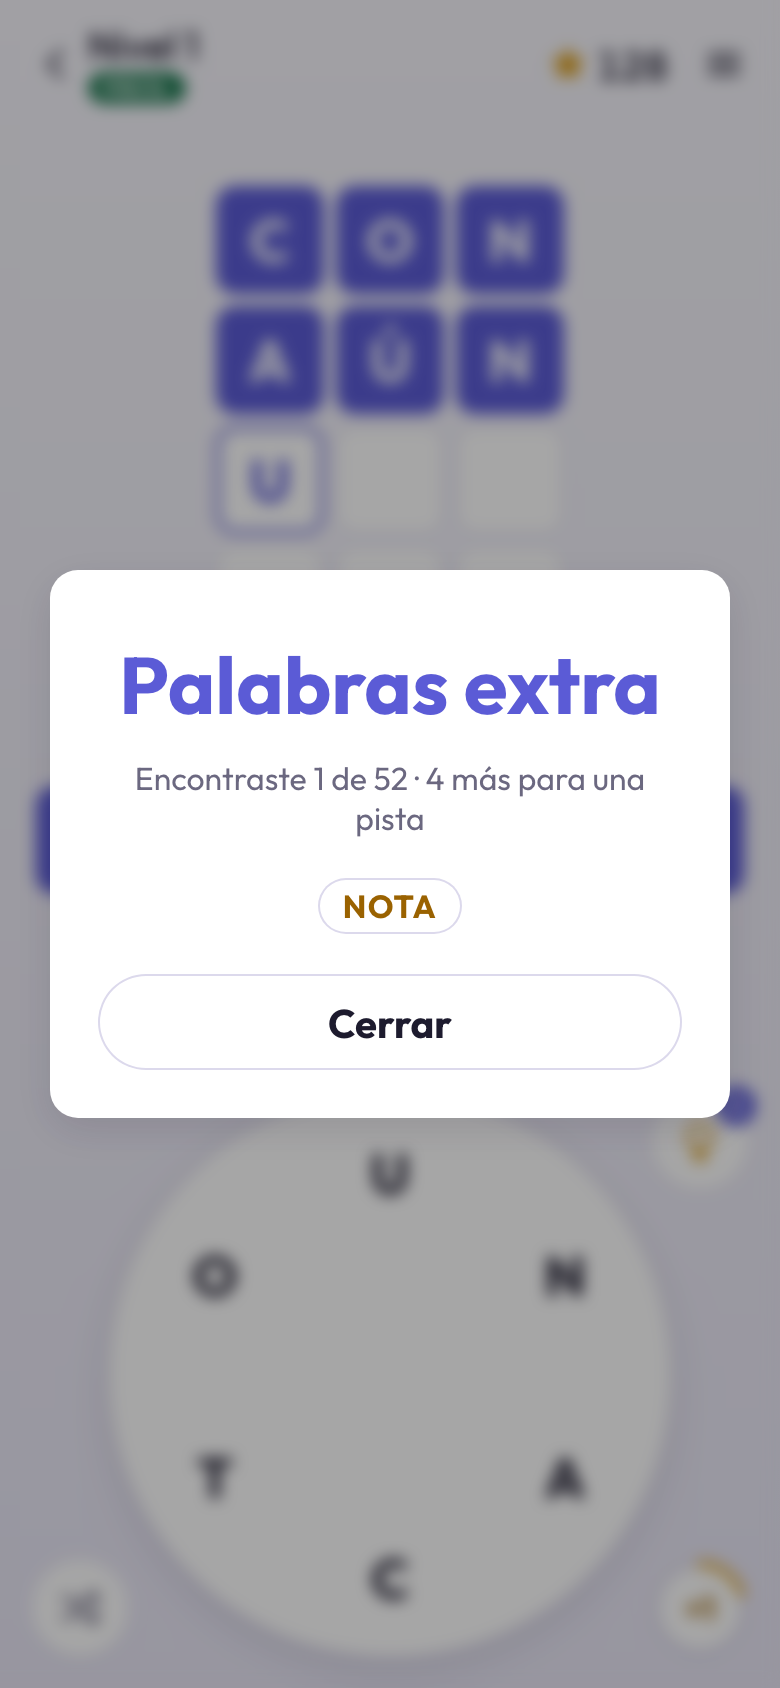
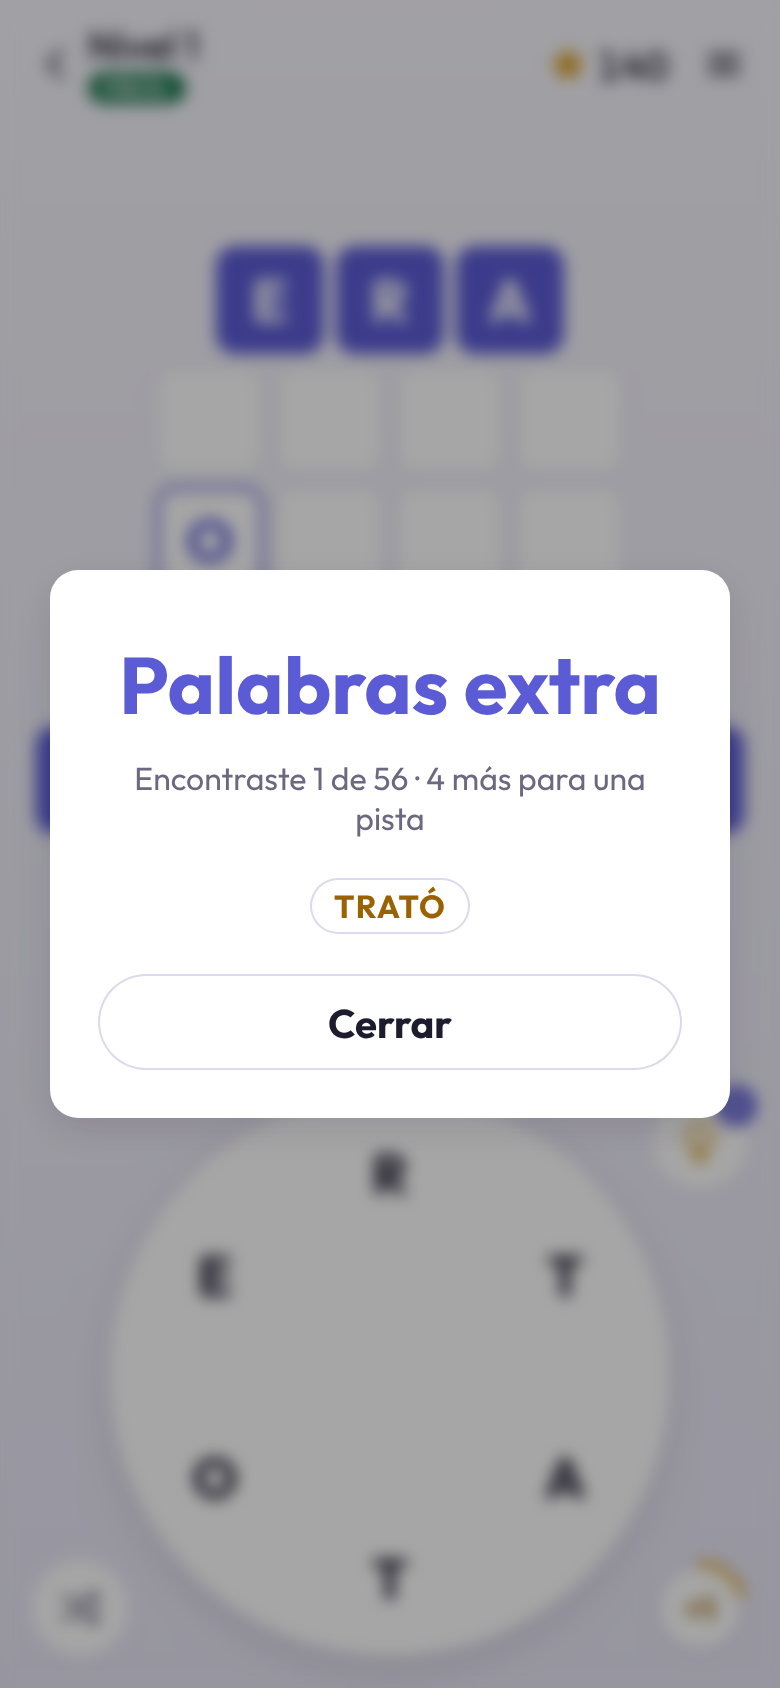
feat: harder tiers ask for more targets, up to ten (#96)
Each level size has a most-targets per tier (SIZES, DAILY_SIZE): on 8 letters 7, 8, 9 and 10 from easy to extra hard, one less per step on smaller wheels; the daily follows its weekday's tier. The difficulty score stays an average of rarity and length; Contrarreloj keeps its small boards. Ten is about the most a phone's board shows readably (D26). LEVELS_VERSION 2 and a new golden hash: levels in play start over.

Claude-Session: https://claude.ai/code/session_013viqkGq2vdvebxjeaEat5e

diff --git a/src/core/generate.ts b/src/core/generate.ts
@@ -10,7 +10,7 @@ import { THREE_STAR_BONUS } from './history';
 import { canSpell, MIN_WORD_LENGTH, type Level } from './level';
 import { seededRandom, shuffled } from './random';
 
-/** How big a level is. Grows with progress; how hard it is comes from its tier. */
+/** How big a level is: what the generator builds. How hard it is comes from its tier. */
 export type LevelShape = {
   /** Letters on the wheel. */
   letters: number;
@@ -20,20 +20,34 @@ export type LevelShape = {
   shortestTarget: number;
 };
 
+/** A size of level, whatever its tier: harder tiers may ask for more targets (D26). */
+export type LevelSize = Omit<LevelShape, 'targets'> & {
+  /** Most targets on the board, by tier. */
+  targets: Readonly<Record<Tier, number>>;
+};
+
 /** Level sizes as the player progresses: each step applies from level `from` on. */
-export const SIZES: readonly (LevelShape & { from: number })[] = [
-  { from: 1, letters: 6, targets: 6, shortestTarget: 3 },
-  { from: 6, letters: 6, targets: 7, shortestTarget: 3 },
-  { from: 16, letters: 7, targets: 8, shortestTarget: 3 },
-  // More targets than this won't fit a small phone with readable tiles.
-  { from: 41, letters: 8, targets: 9, shortestTarget: 4 },
+export const SIZES: readonly (LevelSize & { from: number })[] = [
+  { from: 1, letters: 6, targets: { easy: 5, medium: 6, hard: 7, extra: 8 }, shortestTarget: 3 },
+  { from: 16, letters: 7, targets: { easy: 6, medium: 7, hard: 8, extra: 9 }, shortestTarget: 3 },
+  // Ten targets is about the most a phone's board shows with readable tiles (D26).
+  { from: 41, letters: 8, targets: { easy: 7, medium: 8, hard: 9, extra: 10 }, shortestTarget: 4 },
 ];
 
-/** The shape of level `levelNumber`, from {@link SIZES}. */
-export function levelShape(levelNumber: number): LevelShape {
+/** A size's shape for a tier: its letters, and that tier's most targets. */
+export function shapeFor(size: LevelSize, tier: Tier): LevelShape {
+  return {
+    letters: size.letters,
+    targets: size.targets[tier],
+    shortestTarget: size.shortestTarget,
+  };
+}
+
+/** The shape of level `levelNumber` at a tier, from {@link SIZES}. */
+export function levelShape(levelNumber: number, tier: Tier = 'medium'): LevelShape {
   const step = SIZES.findLast(({ from }) => from <= levelNumber) ?? SIZES[0];
   if (!step) throw new Error('No level sizes defined');
-  return step;
+  return shapeFor(step, tier);
 }
 
 /**
@@ -42,7 +56,7 @@ export function levelShape(levelNumber: number): LevelShape {
  * `content/es/words.test.ts` fails until you do. A save from before keeps the player's
  * progress but drops the levels in play, which would now be other levels.
  */
-export const LEVELS_VERSION = 1;
+export const LEVELS_VERSION = 2;
 
 /** Fewest targets a generated level may have; fewer would make a dull board. */
 export const MIN_TARGETS = 5;
@@ -185,14 +199,14 @@ function buildLevel(
  * @param occurrence How many earlier levels share this one's tier and size (`occurrence`
  * in `core/cadence`): which block of seeds it gets. Negative counts back from the end of
  * the order (−1 is the last block), which the daily challenges use.
- * @param shape Its size; by default the one for its number ({@link levelShape}).
+ * @param shape Its size; by default the one for its number and tier ({@link levelShape}).
  */
 export function generateLevel(
   words: readonly string[],
   levelNumber: number,
   tier: Tier = 'medium',
   occurrence = 0,
-  shape: LevelShape = levelShape(levelNumber),
+  shape: LevelShape = levelShape(levelNumber, tier),
 ): Level {
   const recipe = RECIPES[tier];
   const order = seedOrder(words, tier, shape.letters);

diff --git a/src/content/es/words.test.ts b/src/content/es/words.test.ts
@@ -59,13 +59,26 @@ describe('Spanish word lists', () => {
     for (const number of [...numbers, 25, 40, 41, 60, 100, 500, 1000]) {
       for (const tier of TIERS) {
         const level = generateLevel(words, number, tier);
-        const shape = levelShape(number);
+        const shape = levelShape(number, tier);
         expect(levelProblems(level), `level ${number} ${tier}`).toEqual([]);
         expect(level.letters).toHaveLength(shape.letters);
         expect(level.targets.length).toBeLessThanOrEqual(shape.targets);
         expect(level.targets.every((word) => word.length >= shape.shortestTarget)).toBe(true);
       }
     }
+  });
+
+  it('ask harder tiers for more targets, on average', () => {
+    const average = (tier: (typeof TIERS)[number]) => {
+      let total = 0;
+      for (let number = 41; number < 71; number++) {
+        total += generateLevel(words, number, tier, number).targets.length;
+      }
+      return total / 30;
+    };
+    const averages = TIERS.map(average);
+    expect(averages, averages.join(' < ')).toEqual(averages.toSorted((a, b) => a - b));
+    expect(new Set(averages).size).toBe(TIERS.length);
   });
 
   // 600 levels take ~4 s, past Vitest's 5 s default when the machine is busy.
@@ -150,8 +163,8 @@ describe('Spanish word lists', () => {
     // A new hash means players would get other levels: if that's intended, bump
     // LEVELS_VERSION (saves then drop their levels in play) and update both numbers here.
     expect({ LEVELS_VERSION, hash: hash(JSON.stringify(levels)) }).toEqual({
-      LEVELS_VERSION: 1,
-      hash: 'dee65d0f',
+      LEVELS_VERSION: 2,
+      hash: '7e3cd055',
     });
   });
 });

diff --git a/src/core/daily.ts b/src/core/daily.ts
@@ -3,7 +3,7 @@
  * @module
  */
 
-import { generateLevel, type LevelShape } from './generate';
+import { generateLevel, shapeFor, type LevelSize } from './generate';
 import type { Tier } from './difficulty';
 import type { LevelRecord } from './history';
 import type { Level } from './level';
@@ -12,8 +12,12 @@ import { NEW_SESSION, type Session } from './session';
 /** The first daily challenge's date: number 1. */
 export const DAILY_EPOCH = '2026-10-19';
 
-/** A daily challenge's size: the same every day. */
-export const DAILY_SHAPE: LevelShape = { letters: 7, targets: 8, shortestTarget: 3 };
+/** A daily challenge's size: the same every day, with more targets on harder days. */
+export const DAILY_SIZE: LevelSize = {
+  letters: 7,
+  targets: { easy: 6, medium: 7, hard: 8, extra: 9 },
+  shortestTarget: 3,
+};
 
 /** Tiers by weekday, Monday first: easy at the start of the week, extra hard on Sunday. */
 export const DAILY_TIERS: readonly Tier[] = [
@@ -79,12 +83,13 @@ export function dailyOccurrence(key: string): number {
  * start, so a daily never repeats a main level or a recent daily.
  */
 export function generateDaily(words: readonly string[], key: string): Level {
+  const tier = dailyTier(key);
   return generateLevel(
     words,
     DAILY_LEVEL_BASE + dailyNumber(key),
-    dailyTier(key),
+    tier,
     -1 - dailyOccurrence(key),
-    DAILY_SHAPE,
+    shapeFor(DAILY_SIZE, tier),
   );
 }
 

diff --git a/src/core/generate.test.ts b/src/core/generate.test.ts
@@ -40,13 +40,20 @@ const words = [
 
 describe('levelShape', () => {
   it('grows with progress', () => {
-    expect(levelShape(1)).toMatchObject({ letters: 6, targets: 6 });
-    expect(levelShape(5)).toMatchObject({ letters: 6, targets: 6 });
-    expect(levelShape(6)).toMatchObject({ letters: 6, targets: 7 });
-    expect(levelShape(16)).toMatchObject({ letters: 7, targets: 8 });
+    expect(levelShape(1)).toMatchObject({ letters: 6, shortestTarget: 3 });
+    expect(levelShape(15)).toMatchObject({ letters: 6 });
+    expect(levelShape(16)).toMatchObject({ letters: 7 });
     expect(levelShape(40)).toMatchObject({ letters: 7 });
-    expect(levelShape(41)).toMatchObject({ letters: 8, targets: 9, shortestTarget: 4 });
+    expect(levelShape(41)).toMatchObject({ letters: 8, shortestTarget: 4 });
     expect(levelShape(5000)).toMatchObject({ letters: 8 });
+  });
+
+  it('asks harder tiers for more targets, up to ten', () => {
+    const most = (levelNumber: number) =>
+      TIERS.map((tier) => levelShape(levelNumber, tier).targets);
+    expect(most(1)).toEqual([5, 6, 7, 8]);
+    expect(most(16)).toEqual([6, 7, 8, 9]);
+    expect(most(41)).toEqual([7, 8, 9, 10]);
   });
 });
 

diff --git a/docs/guides/difficulty.md b/docs/guides/difficulty.md
@@ -5,23 +5,25 @@ group: Guides
 
 # Difficulty
 
-A level has a **size** (letters on the wheel, number of targets), which grows with
-progress, and a **tier** (easy, medium, hard, extra hard), which alternates in a rhythm.
-They're independent: the tier only changes _which words_ are the targets. The numbers
-here come from calibrating on generated levels (D16).
+A level has a **size** (letters on the wheel, most targets), which grows with progress,
+and a **tier** (easy, medium, hard, extra hard), which alternates in a rhythm. The tier
+decides _which words_ are the targets and, within the size, how many: harder tiers ask
+for more (D26). The numbers here come from calibrating on generated levels (D16).
 
 ## Size grows with progress
 
 {@link "core/generate"!SIZES | SIZES}, read by {@link "core/generate"!levelShape | levelShape}:
 
-| From level | Letters | Max targets | Shortest target |
-| ---------- | ------- | ----------- | --------------- |
-| 1          | 6       | 6           | 3               |
-| 6          | 6       | 7           | 3               |
-| 16         | 7       | 8           | 3               |
-| 41         | 8       | 9           | 4               |
+| From level | Letters | Max targets: easy · medium · hard · extra | Shortest target |
+| ---------- | ------- | ----------------------------------------- | --------------- |
+| 1          | 6       | 5 · 6 · 7 · 8                             | 3               |
+| 16         | 7       | 6 · 7 · 8 · 9                             | 3               |
+| 41         | 8       | 7 · 8 · 9 · 10                            | 4               |
 
-Every level has at least {@link "core/generate"!MIN_TARGETS | MIN_TARGETS} targets.
+Every level has at least {@link "core/generate"!MIN_TARGETS | MIN_TARGETS} targets; it gets fewer than
+its tier's most when its letters don't spell enough of the tier's words. Ten is about
+the most a phone's board shows with readable tiles: the board shrinks its tiles and, when
+that helps, splits into two columns ({@link "ui/lib/board-layout"!boardLayout | boardLayout}).
 
 ## Scoring a level
 
@@ -102,8 +104,8 @@ bitmask, so most words are rejected with one comparison before the full spelling
 
 ## The daily challenge
 
-{@link "core/daily"!generateDaily | generateDaily}: always {@link "core/daily"!DAILY_SHAPE | DAILY_SHAPE} (7 letters, up to 8
-targets), the tier from the weekday ({@link "core/daily"!DAILY_TIERS | DAILY_TIERS}). Dailies count
+{@link "core/daily"!generateDaily | generateDaily}: always {@link "core/daily"!DAILY_SIZE | DAILY_SIZE} (7 letters, up to 6
+targets on Monday's easy one and 9 on Sunday's extra hard), the tier from the weekday ({@link "core/daily"!DAILY_TIERS | DAILY_TIERS}). Dailies count
 their own blocks per tier ({@link "core/daily"!dailyOccurrence | dailyOccurrence}) and take them from the
 _end_ of the tier's order backwards, while main levels start at the beginning: a daily
 doesn't repeat another for about seven months, nor a main level for longer. That's the

diff --git a/guide/niveles.md b/guide/niveles.md
@@ -28,14 +28,14 @@ aparecer hasta por lo menos 80 niveles después, y casi siempre muchos más.
 
 ## Los niveles crecen
 
-| Niveles        | Letras en la rueda | Palabras en el tablero           |
-| -------------- | ------------------ | -------------------------------- |
-| 1 a 5          | 6                  | hasta 6                          |
-| 6 a 15         | 6                  | hasta 7                          |
-| 16 a 40        | 7                  | hasta 8                          |
-| 41 en adelante | 8                  | hasta 9, todas de 4 letras o más |
+| Niveles        | Letras en la rueda | Palabras en el tablero: fácil · media · difícil · extra difícil |
+| -------------- | ------------------ | --------------------------------------------------------------- |
+| 1 a 15         | 6                  | hasta 5 · 6 · 7 · 8                                             |
+| 16 a 40        | 7                  | hasta 6 · 7 · 8 · 9                                             |
+| 41 en adelante | 8                  | hasta 7 · 8 · 9 · 10, todas de 4 letras o más                   |
 
-Siempre hay al menos 5 palabras en el tablero.
+Cuanto más difícil el nivel, más palabras pide. Siempre hay al menos 5 en el tablero; si
+son muchas, las casillas se achican para que entren todas.
 
 ## Volver a un nivel
 

diff --git a/docs/DECISIONS.md b/docs/DECISIONS.md
@@ -8,6 +8,18 @@ delete it, the history is the point.
 
 ---
 
+## D26 · Harder tiers ask for more targets — 2026-10-20
+
+- **Decision:** each size has a most-targets per tier (`SIZES`, `DAILY_SIZE`): on 8
+  letters 7 · 8 · 9 · 10 from easy to extra hard (one less per step on smaller wheels).
+  The difficulty score stays an average of rarity and length; the count adds effort on
+  top. Contrarreloj keeps its own small boards.
+- **Why:** hard levels should feel bigger, not only rarer. Ten is the readable limit on a
+  phone: measured on an iPhone 15 Pro's board (361×333 px), tiles go from ~31 px with 9
+  targets to 27 px with 10 and 22 px with 12. Two columns don't help with long words,
+  since the second column holds the longest and both must fit side by side.
+- **Revisit:** for 11–12 targets, shrink the wheel on crowded levels first.
+
 ## D25 · No push notifications: they need a server — 2026-10-20
 
 - **Decision:** no daily reminder notifications for now.

diff --git a/docs/GAME.md b/docs/GAME.md
@@ -158,8 +158,12 @@ maximum) are the targets; every other valid word they spell is a bonus word. A l
 Generated levels also have at least 3 bonus words, so every level can earn ★★★.
 
 Size grows with the level number (`SIZES` in `src/core/generate.ts`): 6 letters at
-first, 7 from level 16 and 8 from level 41, with 6 to 9 targets and, from 8 letters on,
-no 3-letter targets.
+first, 7 from level 16 and 8 from level 41, with no 3-letter targets from 8 letters on.
+Harder tiers ask for more targets (D26): at most 5, 6, 7 and 8 (easy to extra hard) on
+6 letters, 6 to 9 on 7 letters (and the daily), 7 to 10 on 8 letters; a level gets fewer
+when its letters don't spell enough of its tier's words, never fewer than 5. The board
+shrinks its tiles, and splits into two columns when that helps, so up to 10 fit a phone.
+Contrarreloj keeps its small boards (5–6 targets).
 
 ### Difficulty
 

diff --git a/CLAUDE.md b/CLAUDE.md
@@ -9,7 +9,7 @@ Read these when the task needs them (they're not loaded up front):
 - `docs/GAME.md`: the rules and UX as they are. Read before changing gameplay or anything
   players see.
 - `docs/PLAN.md`: milestones and tasks; the next unchecked task is the work.
-- `docs/DECISIONS.md`: why things are the way they are (D1…D25).
+- `docs/DECISIONS.md`: why things are the way they are (D1…D26).
 - `docs/guides/`: how the code fits together (published at https://ewajs.github.io/grama/docs/).
 - `guide/`: the players' guide, "Todo sobre Grama" (Spanish, VitePress).
 

diff --git a/guide/dificultad.md b/guide/dificultad.md
@@ -16,6 +16,8 @@ sino **qué palabras hay en el tablero**:
 
 - **Qué tan comunes son.** `CASA` es más fácil de ver que `TÁNDEM`.
 - **Qué tan largas son.** Las palabras largas cuestan más.
+- **Cuántas son.** Los niveles difíciles piden más palabras: en la rueda de 8 letras, un
+  fácil pide hasta 7 y un extra difícil hasta 10.
 
 Cada nivel recibe un puntaje según esas dos cosas, y ese puntaje lo pone en una de las
 cuatro dificultades: **fácil**, **media**, **difícil** o **extra difícil**. Para armar un
